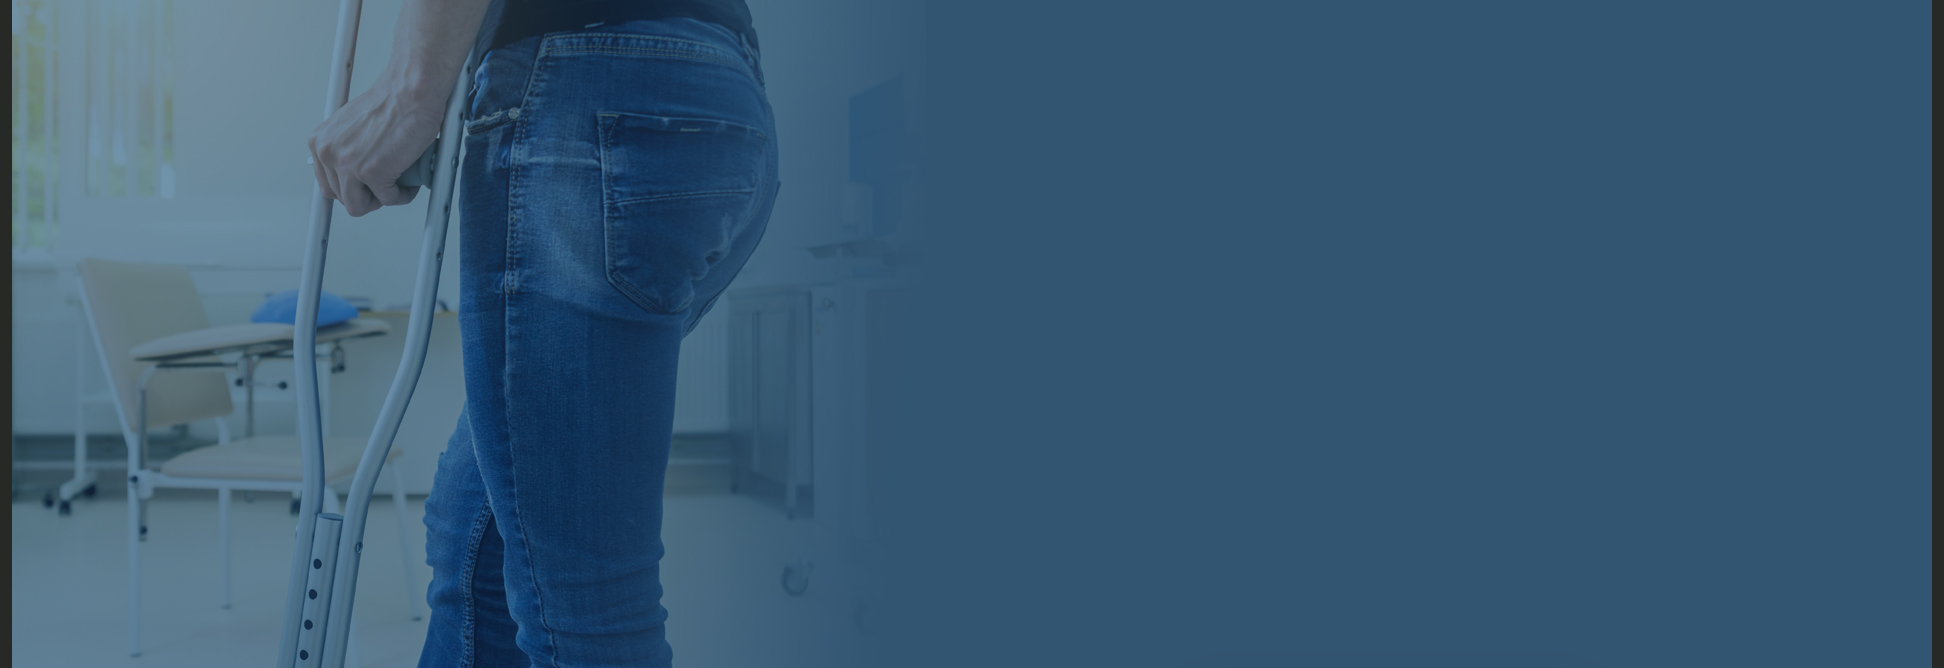
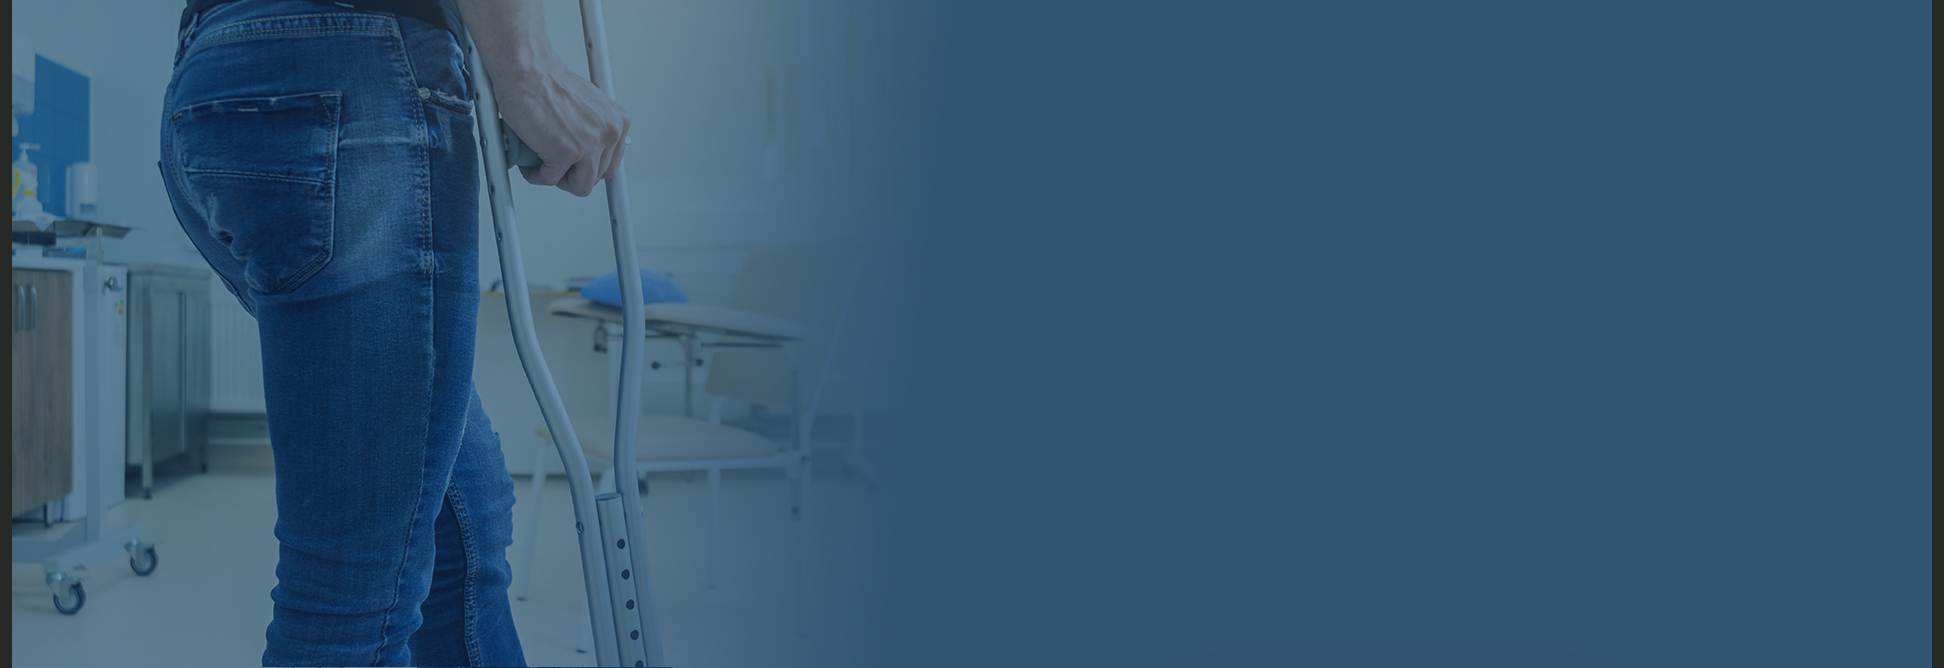
poprawki klienta

Changed region(s): [[0.0, 0.0, 0.4012, 1.0], [0.0, 0.8683, 0.0617, 0.9281], [0.0617, 0.8084, 0.0926, 0.8683]]

diff --git a/index.html b/index.html
@@ -130,7 +130,7 @@
                     <div class="col-xs-12 col-sm-8 col-md-8">
                         <div class="content">
                             <h2 class="title-sec">Kapitalizacja renty</h2>
-                            <p><b> Kapitalizacja renty polega na zamianie przyszłych cyklicznych świadczeń rentowych na jednorazowe odszkodowanie.</b> Od razu otrzymujesz zatem określoną sumę pieniężną, w zamian za co zrzekasz się roszczeń o wypłatę renty w przyszłości. Podstawą prawną do kapitalizacji renty jest przepis art. 447 k.c. Kapitalizacja następuje najczęściej w formie ugody między poszkodowanym a towarzystwem ubezpieczeniowym</p>
+                            <p><b> Kapitalizacja renty polega na zamianie przyszłych cyklicznych świadczeń rentowych na jednorazowe odszkodowanie.</b> Od razu otrzymujesz zatem określoną sumę pieniężną, w zamian za co zrzekasz się roszczeń o wypłatę renty w przyszłości. Podstawą prawną do kapitalizacji renty jest przepis art. 447 k.c. Kapitalizacja następuje najczęściej w formie ugody między poszkodowanym a towarzystwem ubezpieczeniowym.</p>
                             <p>Zastanawiasz się, czy kapitalizacja renty to dobre rozwiązanie? Oczywiście nie jest to łatwa decyzja i zdecydowanie warto się nad nią zastanowić. Z jednej strony dostajesz duży zastrzyk gotówki z drugiej zrzekasz się prawa do przyszłej renty.</p>
                             <p>Jeżeli zdecydujesz się na kapitalizację, część środków dobrze jest zainwestować, m.in. na zakup mieszkania lub założenie własnej firmy.  Po czasie może okazać się, że dobrze zagospodarowane pieniądze przyniosą bardzo dużo korzyści.</p>
                             <p>Za takim rozwiązaniem przemawia dodatkowo fakt, że renta nie jest dożywotnia i może się okazać, że po jakimś czasie jej wypłata będzie cofnięta. Jeszcze jedno – taka renta nie jest dziedziczona, więc jeżeli coś Ci się stanie, renta nie będzie dalej wypłacana Twoim spadkobiercom.</p>
@@ -154,7 +154,7 @@
                             <p>Potwierdzenie stanowi Decyzja Sądu Najwyższego z dnia 05 listopada 1987 roku w sprawie o sygn. akt. III CZP 63/87, w której jest mowa o prawie do zmiany wysokości renty. Każda renta powypadkowa, która została zwaloryzowana może zostać wyrównana do trzech lat wstecz.</p>
                             <a href="#" class="btn">SPRAWDŹ MOŻLIWOŚĆ WALORYZACJI RENTY <img src="src/img/arrow-btn.png" alt=""></a>
                             <hr>
-                            <small><b>Europejskie Centrum Odszkodowań SA,</b> <br>ul. św. M. Kolbe 18, 59-220 Legnic</small>
+                            <small><b>Europejskie Centrum Odszkodowań S.A.</b> <br>ul. św. M. Kolbe 18, 59-220 Legnica</small>
                         </div>
                     </div>
                     <div class="col-xs-12  col-sm-5 col-md-4">
@@ -169,7 +169,7 @@
                                 </div>
                             </div>
                             <div class="con con2">
-                                <img src="src/img/phone-w.png" alt="">
+                                <img src="src/img/email-w.png" alt="">
                                 <a href="mailto:biuro@kapitalizacja-renty.pl">biuro@kapitalizacja-renty.pl</a>
                             </div>
                             <hr>

diff --git a/src/css/sass/_lp.scss b/src/css/sass/_lp.scss
@@ -11,8 +11,9 @@
         background-size: initial;
     }
     .logo{
-        padding-top: 40px;
-        padding-bottom: 65px;
+        // padding-top: 40px;
+        // padding-bottom: 65px;
+        margin-left: -60px;
     }
     h1{
         font-size: 24px;
@@ -266,13 +267,13 @@
     background-position: center ;
     padding: 60px 0;
     @media #{$md} {
-        background-position: 23% center;
+        background-position: 39% center;
     }
     @media #{$sm} {
-        background-position: 23% center;
+        background-position: 35% center;
     }
     @media #{$xs} {
-        background-position: 14% center;
+        background-position: 27% center;
     }
     .content{
         .title-sec{

diff --git a/src/css/main.css b/src/css/main.css
@@ -131,8 +131,7 @@ b {
 }
 
 .hero .logo {
-  padding-top: 40px;
-  padding-bottom: 65px;
+  margin-left: -60px;
 }
 
 .hero h1 {
@@ -471,19 +470,19 @@ b {
 
 @media only screen and (max-width: 1200px) {
   .kapitalizacja {
-    background-position: 23% center;
+    background-position: 39% center;
   }
 }
 
 @media only screen and (max-width: 992px) {
   .kapitalizacja {
-    background-position: 23% center;
+    background-position: 35% center;
   }
 }
 
 @media only screen and (max-width: 768px) {
   .kapitalizacja {
-    background-position: 14% center;
+    background-position: 27% center;
   }
 }
 
